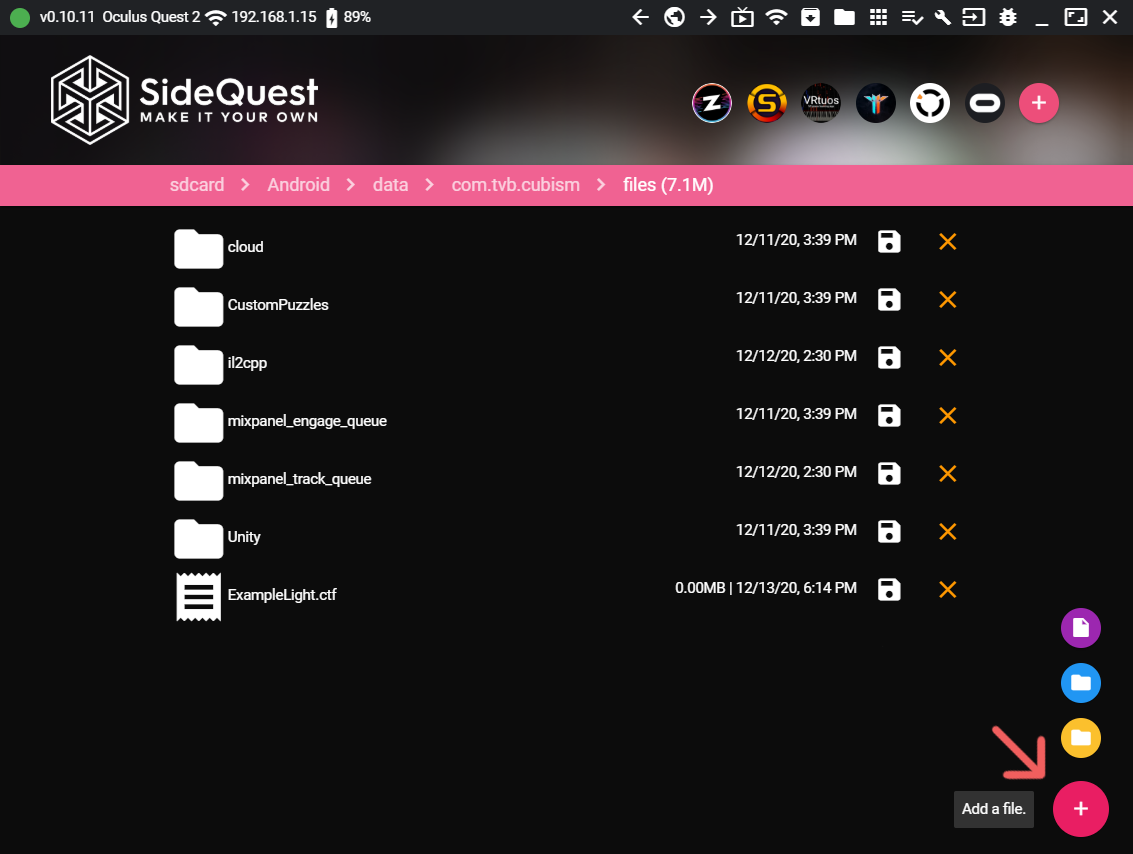
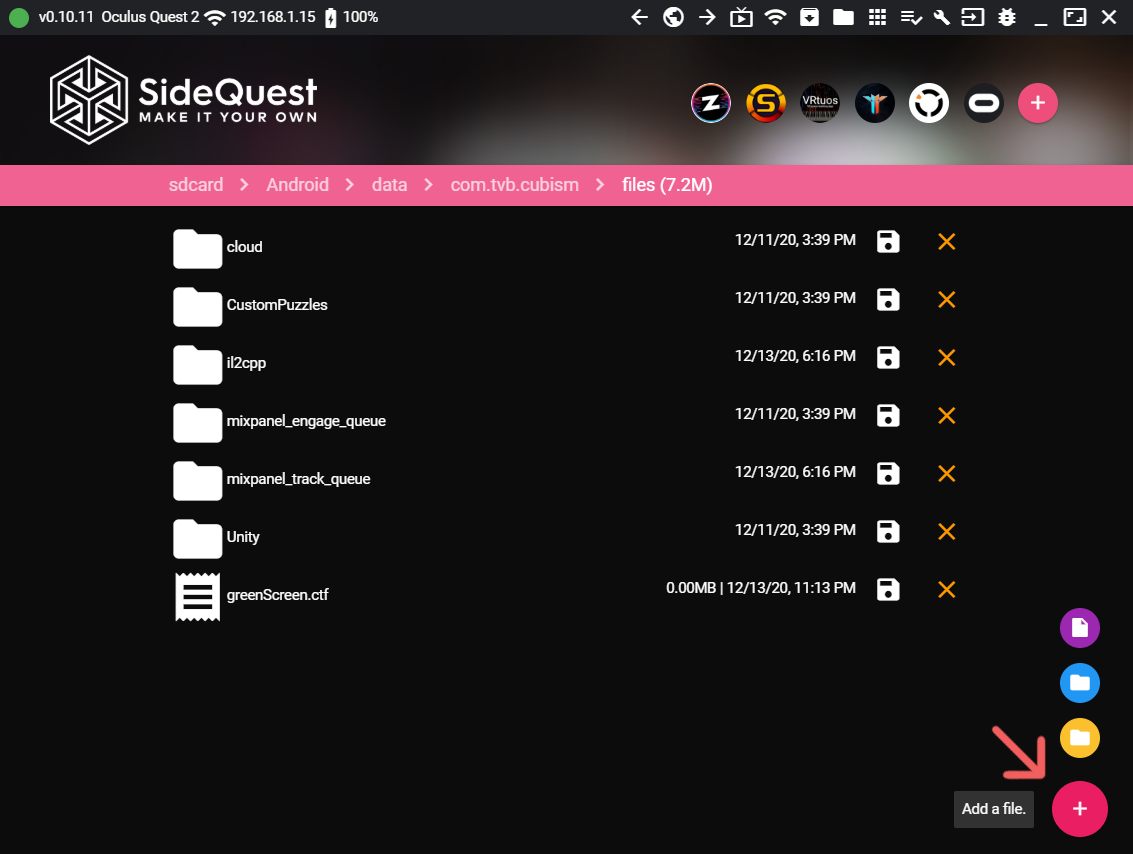
additional images

diff --git a/CustomTheme/README.md b/CustomTheme/README.md
@@ -1,0 +1,43 @@
+![](https://raw.githubusercontent.com/cubismvr/Mods/main/Images/Logo.png)
+
+# Custom Themes
+
+As of version 1.1.0, you can modify Cubism's color theme by dropping a Cubism theme file (`.ctf`) in a specific folder on your Quest/Computer, letting you modify the appearance of the game's environment, puzzle grid and menu.
+This can be particularly usefull if you're making mixed reality content of the game and want to tweak the look of certain elements for better results or to aid in compositing.
+
+- [Custom theme example](#Custom-theme-example)
+- [Sideloading a custom theme on Quest](#Sideloading-a-custom-theme-on-Quest)
+- [Adding a custom theme on PC](#Adding-a-custom-theme-on-PC)
+- [Removing a custom theme](#Removing-a-custom-theme)
+
+## Custom theme example
+This repo contains [a theme file example](https://github.com/cubismvr/Mods/blob/main/CustomColorTheme/ExampleLight.ctf) with comments to explain how the `.ctf` format works. You can use this file as a template to make your own themes.
+
+There's also an example for a greenscreen theme. This turns the background green, which could be usefull to composit faux-AR mixed reality footage.
+
+![](https://github.com/cubismvr/Mods/blob/main/Images/GreenScreenThumb.jpg)
+
+## Sideloading a custom theme on Quest
+1. Download a `.ctf` file on your computer from a trusted source, or make your own using [the example in this repo.](https://github.com/cubismvr/Mods/blob/main/CustomColorTheme/ExampleLight.ctf)
+2. Connect your Quest to your computer and [open up SideQuest](https://sidequestvr.com/)
+3. Open the File Explorer in the top right
+
+![](https://github.com/cubismvr/mods/blob/main/Images/SideQuest1.png)
+
+4. Navigate to the `sdcard/Android/data/com.tvb.cubism/files/`.
+5. Press the plus button in the bottom right to add files to this folder. Select the `.ctf` file from your filesystem and upload it here. Note that if multiple `.ctf` files are present in this directory, the game will use the first one it finds.
+
+![](https://github.com/cubismvr/mods/blob/main/Images/SideQuest3.png)
+
+6. When you launch Cubism, the theme file should now be applied. In the settings menu, you should now see that the dark mode option is crossed out, with a message explaining which theme file is overriding.
+
+![](https://github.com/cubismvr/mods/blob/main/Images/CtfMenu.jpg)
+
+## Adding a custom theme on PC
+1. Download a `.ctf` file on your computer from a trusted source, or make your own using [the example in this repo.](https://github.com/cubismvr/Mods/blob/main/CustomColorTheme/ExampleLight.ctf)
+2. Copy the `.ctf` file to this folder on your PC: `C:\Users\[yourPcName]\Documents\Cubism`.
+3. When you launch Cubism, the theme file should now be applied. In the settings menu, you should now see that the dark mode option is crossed out, with a message explaining which theme file is overriding.
+
+## Removing a custom theme
+To remove a custom theme and go back to Cubism's default style, simple remove the `.ctf` file from the game's directory on your Quest or your computer.
+
